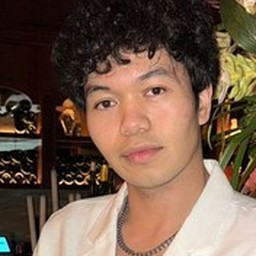
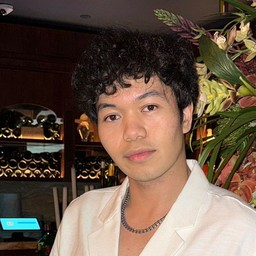
Re-crop Andrei + Kabrin to head-and-shoulders distance matching Sky

diff --git a/index.html b/index.html
@@ -298,7 +298,7 @@ section.block { padding-top: 84px; padding-bottom: 84px; }
     <div class="versus" style="margin-top:26px;">
       <div class="op-card">
         <div class="op-top">
-          <img class="op-photo" src="assets/andrei.jpg?v=2" alt="Andrei Givero" onload="this.nextElementSibling.style.display='none'" onerror="this.remove()">
+          <img class="op-photo" src="assets/andrei.jpg?v=3" alt="Andrei Givero" onload="this.nextElementSibling.style.display='none'" onerror="this.remove()">
           <div class="op-mono">AG</div>
           <div>
             <div class="op-name">Andrei Givero</div>
@@ -316,7 +316,7 @@ section.block { padding-top: 84px; padding-bottom: 84px; }
       </div>
       <div class="op-card k">
         <div class="op-top">
-          <img class="op-photo" src="assets/kabrin.jpg?v=2" alt="Kabrin Johal" onload="this.nextElementSibling.style.display='none'" onerror="this.remove()">
+          <img class="op-photo" src="assets/kabrin.jpg?v=3" alt="Kabrin Johal" onload="this.nextElementSibling.style.display='none'" onerror="this.remove()">
           <div class="op-mono">KJ</div>
           <div>
             <div class="op-name">Kabrin Johal</div>
